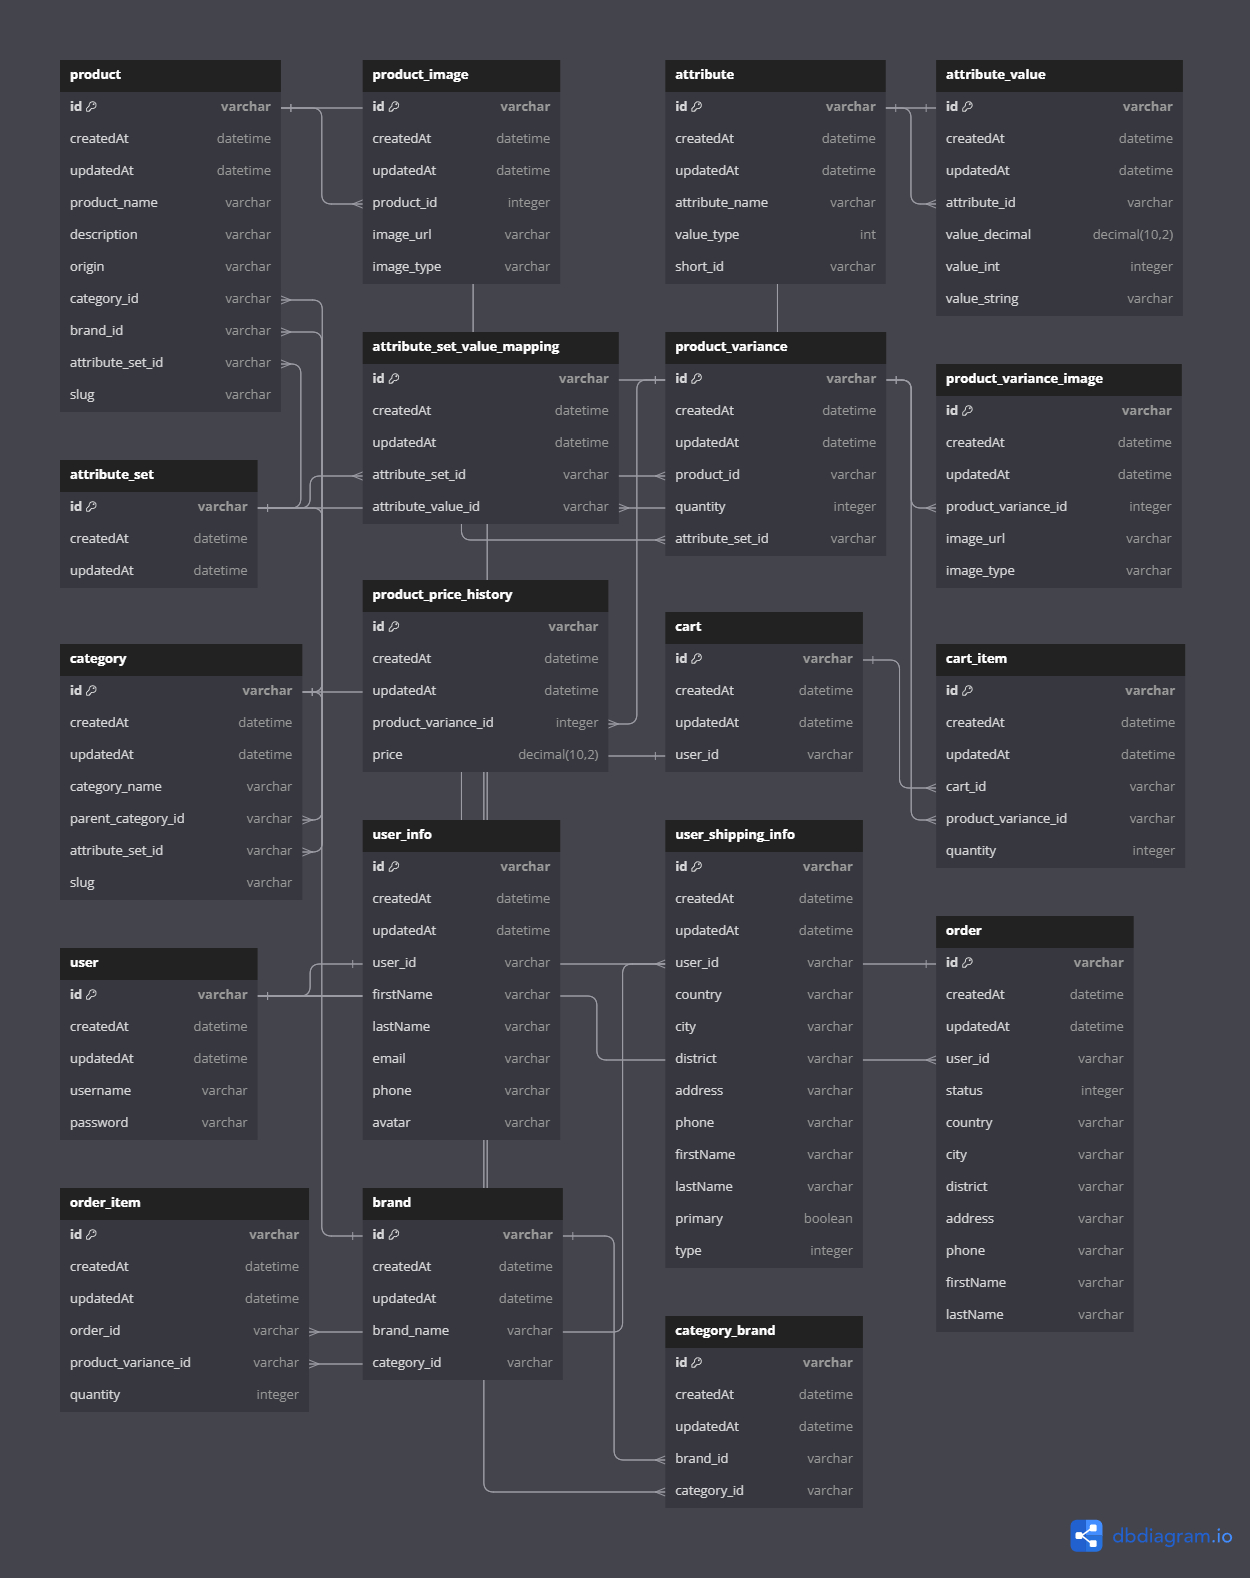
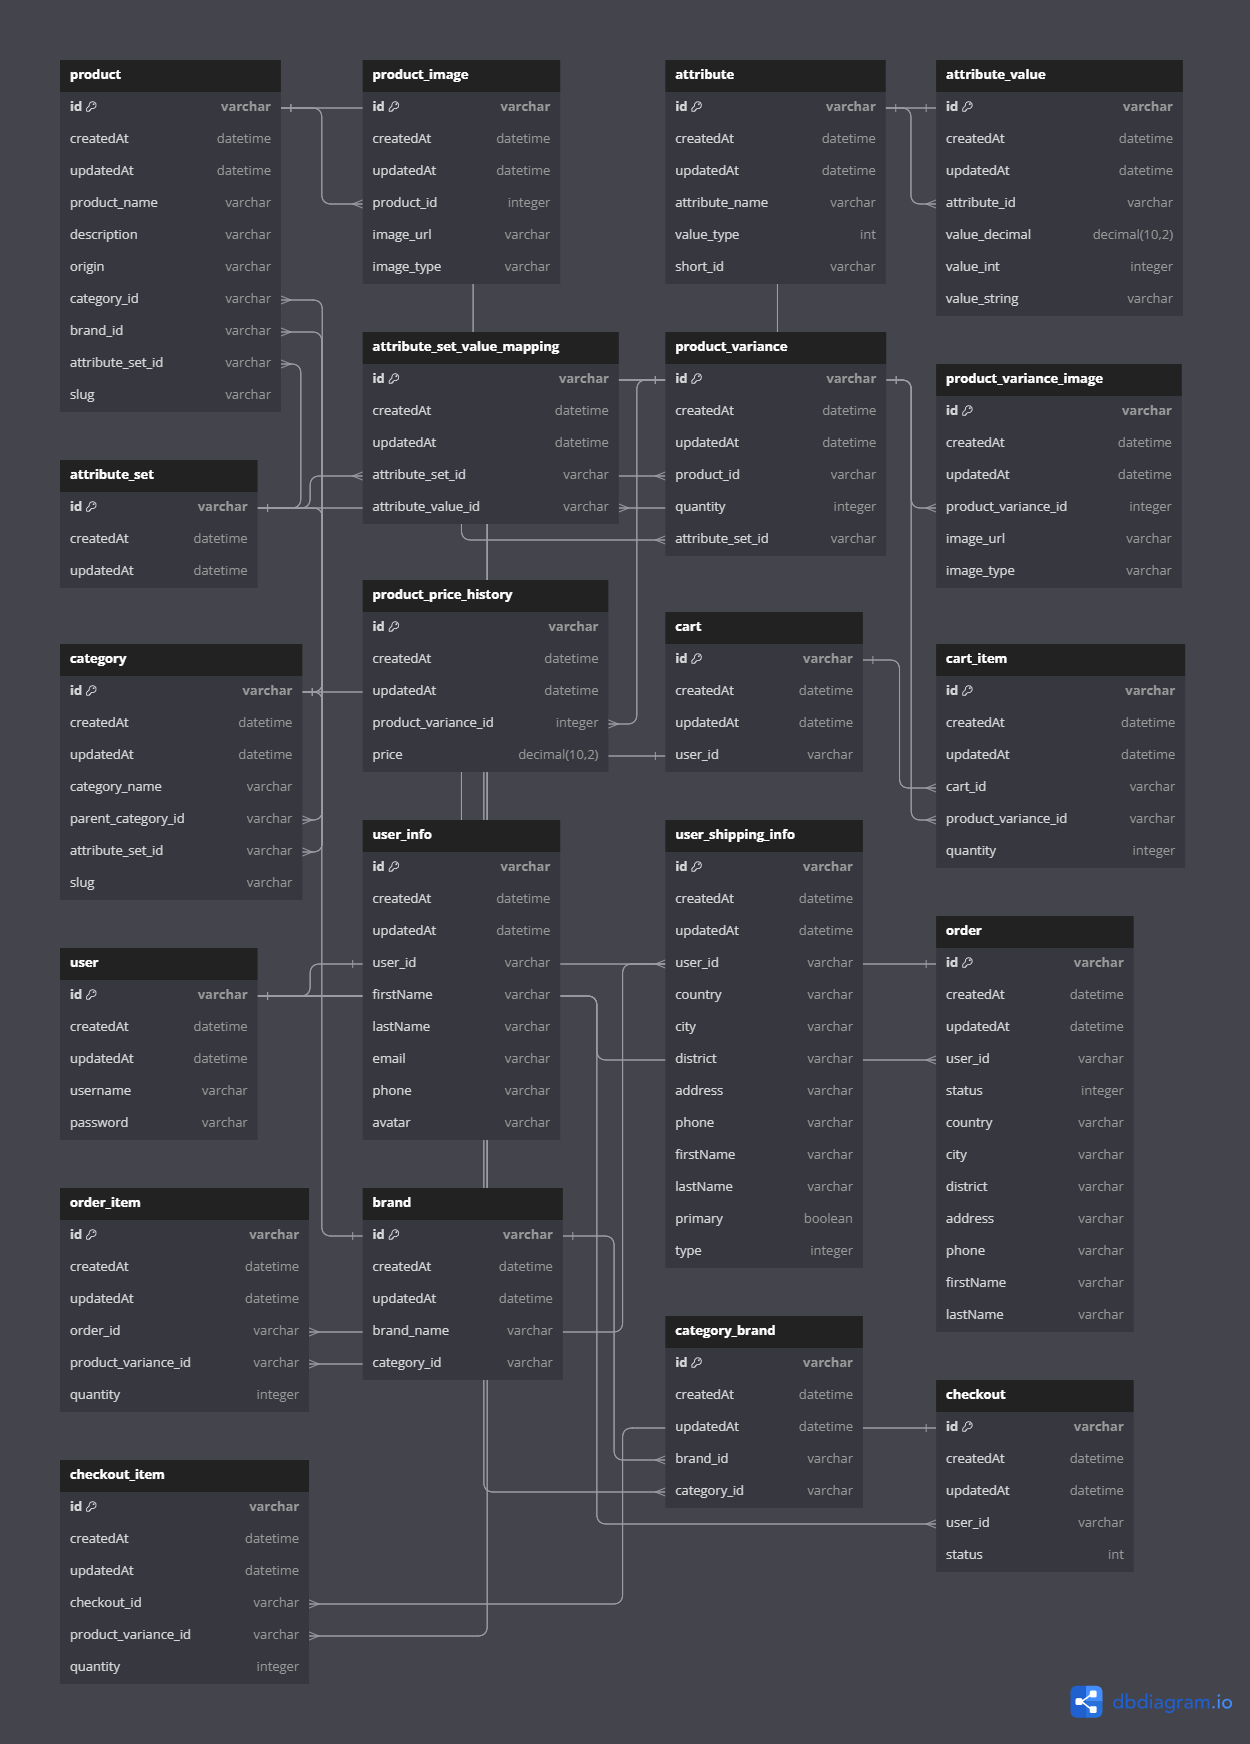
feat: add getCategoryDetailsBySlug

diff --git a/src/modules/user/user.controller.ts b/src/modules/user/user.controller.ts
@@ -1,7 +1,7 @@
 import { Body, Controller, Get, Param, Post, Req, Res, UseGuards } from '@nestjs/common'
 import { UserService } from './user.service'
 import { Response } from 'express'
-import { ApiBody, ApiCreatedResponse, ApiParam, ApiResponse } from '@nestjs/swagger'
+import { ApiBody, ApiCreatedResponse, ApiParam, ApiResponse, ApiTags } from '@nestjs/swagger'
 import CreateUserDTO from 'src/dtos/create-user.dto'
 import User from 'src/entities/user.entity'
 import AuthService from '../auth/auth.service'
@@ -11,6 +11,7 @@ import Cart from 'src/entities/cart.entity'
 import { TokenVerifyGuard } from '../auth/tokenVerify.guard'
 import RemoveFromCartDTO from 'src/dtos/remove-from-cart.dto'
 
+@ApiTags('User')
 @Controller('users')
 export class UserController {
   constructor(private readonly service: UserService, private readonly authService: AuthService) {}
@@ -104,16 +105,16 @@ export class UserController {
   @Get('authentication')
   async anthentication(@Req() request: any, @Res() res: Response) {
     if (!request.cookies || !request.cookies['access_token']) return res.status(401).json({ error: 'Authentication failed' })
-    
+
     const accessToken = request.cookies['access_token']
     const refreshToken = request.cookies['refresh_token']
-    
+
     const validateAccessToken = await this.authService.validateToken('access_token', accessToken)
     if (validateAccessToken) return res.status(200).json({ ...validateAccessToken, accessToken, refreshToken })
-   
+
     const validateRfToken = await this.authService.validateToken('refresh_token', refreshToken)
     if (!validateRfToken) return res.status(401).json({ error: 'Authentication failed' })
-   
+
     const newAccessToken = await this.authService.signToken('access_token', { _id: validateRfToken.id })
     res.cookie('access_token', newAccessToken, tokenConfig.accessToken.cookieOptions)
     return res.status(200).json({

diff --git a/src/modules/product/product.service.ts b/src/modules/product/product.service.ts
@@ -364,8 +364,10 @@ export class ProductService {
     if (query['c']) {
       const categorySlugs = query['c']
       const categories = await this.categoryRepository.findBy({ slug: In(categorySlugs) })
+      if (categories.length === 0) return []
       const attributeSet = categories[0].attributeSet
-      const categoryDetails = await this.categoryService.getCategoryDetails(categories[0].id)
+      if (!attributeSet) return []
+      const categoryDetails = await this.categoryService.getCategoryDetails(categories[0].id, null)
       categoryDetails.brands.forEach((brand) => {
         productFilters.brands.values.push(brand.brand_name)
       })
@@ -407,7 +409,7 @@ export class ProductService {
         .getOne()
       if (!product) return []
       const attributeSet = product.category.attributeSet
-      const categoryDetails = await this.categoryService.getCategoryDetails(product.category.id)
+      const categoryDetails = await this.categoryService.getCategoryDetails(product.category.id, null)
       categoryDetails.brands.forEach((brand) => {
         productFilters.brands.values.push(brand.brand_name)
       })

diff --git a/src/entities/product-variance.entity.ts b/src/entities/product-variance.entity.ts
@@ -1,12 +1,12 @@
-import { Column, Entity, JoinColumn, ManyToOne, OneToMany } from 'typeorm'
+import { Column, Entity, JoinColumn, ManyToOne, OneToMany, OneToOne } from 'typeorm'
 import CustomBase from './base'
 import Product from './product.entity'
 import ProductImage from './product-variance-image.entity'
 import ProductPriceHistory from './product-price-history.entity'
 import CartItem from './cart-item.entity'
 import OrderItem from './order-item.entity'
-import ProductVarianceImage from './product-variance-image.entity'
 import AttributeSet from './attribute-set.entity'
+import CheckoutItem from './checkout-item.entity'
 
 @Entity()
 class ProductVariance extends CustomBase {
@@ -38,6 +38,9 @@ class ProductVariance extends CustomBase {
   @ManyToOne(() => AttributeSet, (attributeSet) => attributeSet.productVariances, { eager: true })
   @JoinColumn({ name: 'attribute_set_id' })
   attributeSet: AttributeSet
+
+  @OneToOne(() => CheckoutItem, (checkoutItem) => checkoutItem.productVariance)
+  checkoutItems: CheckoutItem[]
 }
 
 export default ProductVariance

diff --git a/src/entities/checkout.entity.ts b/src/entities/checkout.entity.ts
@@ -1,0 +1,32 @@
+import { Column, Entity, Index, JoinColumn, ManyToOne, OneToMany, OneToOne } from 'typeorm'
+import CustomBase from './base'
+import Category from './category.entity'
+import ProductVariance from './product-variance.entity'
+import Brand from './brand.entity'
+import ProductImage from './product-image.entity'
+import { ApiProperty } from '@nestjs/swagger'
+import AttributeSet from './attribute-set.entity'
+import User from './user.entity'
+import CheckoutItem from './checkout-item.entity'
+
+@Entity()
+class Checkout extends CustomBase {
+  //0: checkout, 1: ordered 
+  @ApiProperty()
+  @Column({ type: 'int2', nullable: false, default: 0 })
+  status: string
+
+  @ApiProperty()
+  @Column({ type: 'varchar', nullable: false })
+  user_id: string
+
+  @ManyToOne(() => User, (user) => user.checkouts)
+  @JoinColumn({ name: 'user_id' })
+  user: User
+
+  @ApiProperty()
+  @OneToMany(() => CheckoutItem, (checkoutItem) => checkoutItem.checkout, { eager: true })
+  checkoutItems: CheckoutItem[]
+}
+
+export default Checkout

diff --git a/src/entities/checkout-item.entity.ts b/src/entities/checkout-item.entity.ts
@@ -1,0 +1,30 @@
+import { Column, Entity, JoinColumn, ManyToOne } from 'typeorm'
+import CustomBase from './base'
+import ProductVariance from './product-variance.entity'
+import { ApiProperty } from '@nestjs/swagger'
+import Checkout from './checkout.entity'
+
+@Entity()
+class CheckoutItem extends CustomBase {
+  @Column({ type: 'int2', nullable: false, default: 0 })
+  quantity: number
+
+  @ApiProperty()
+  @Column({ type: 'varchar', nullable: false })
+  checkout_id: string
+
+  @ApiProperty()
+  @Column({ type: 'varchar', nullable: false })
+  product_variance_id: string
+
+  @ManyToOne(() => Checkout, (checkout) => checkout.checkoutItems)
+  @JoinColumn({ name: 'checkout_id' })
+  checkout: Checkout
+
+  @ApiProperty()
+  @ManyToOne(() => ProductVariance, (productVariance) => productVariance.checkoutItems, { eager: true })
+  @JoinColumn({ name: 'product_variance_id' })
+  productVariance: ProductVariance
+}
+
+export default CheckoutItem

diff --git a/src/modules/category/category.controller.ts b/src/modules/category/category.controller.ts
@@ -24,7 +24,16 @@ export class CategoryController {
   @ApiParam({ name: 'id', type: String })
   @Get('/:id')
   async getCategoryDetails(@Param() params: { id: string }, @Res() res: Response) {
-    const response = await this.service.getCategoryDetails(params.id)
+    const response = await this.service.getCategoryDetails(params.id, null)
+    if (!response) return res.status(400).json({ error: 'Not found' })
+    return res.status(200).json(response)
+  }
+
+  @ApiResponse({ status: 200, type: CategoryDetails })
+  @ApiParam({ name: 'slug', type: String })
+  @Get('/slug/:slug')
+  async getCategoryDetailsBySlug(@Param() params: { slug: string }, @Res() res: Response) {
+    const response = await this.service.getCategoryDetails(null, params.slug)
     if (!response) return res.status(400).json({ error: 'Not found' })
     return res.status(200).json(response)
   }

diff --git a/src/app.module.ts b/src/app.module.ts
@@ -31,6 +31,8 @@ import { CategoryBrandModule } from './modules/category-brand/category-brand.mod
 import { AttributeModule } from './modules/attribute/attribute.module'
 import { DataSource } from 'typeorm'
 import { AuthModule } from './modules/auth/auth.module'
+import Checkout from './entities/checkout.entity'
+import CheckoutItem from './entities/checkout-item.entity'
 @Module({
   imports: [
     ConfigModule.forRoot(),
@@ -61,6 +63,8 @@ import { AuthModule } from './modules/auth/auth.module'
         ProductPriceHistory,
         Cart,
         CartItem,
+        Checkout,
+        CheckoutItem
       ],
       synchronize: true,
     }),

diff --git a/src/entities/user.entity.ts b/src/entities/user.entity.ts
@@ -3,6 +3,7 @@ import CustomBase from './base'
 import UserShippingInfo from './user-shipping-info.entity'
 import Order from './order.entity'
 import { ApiProperty } from '@nestjs/swagger'
+import Checkout from './checkout.entity'
 
 @Entity()
 class User extends CustomBase {
@@ -20,6 +21,10 @@ class User extends CustomBase {
   @ApiProperty()
   @OneToMany(() => Order, (order) => order.user, { eager: true })
   orders: Order[]
+
+  @ApiProperty()
+  @OneToMany(() => Checkout, (checkout) => checkout.user, { eager: true })
+  checkouts: Checkout[]
 }
 
 export default User

diff --git a/src/modules/category/category.service.ts b/src/modules/category/category.service.ts
@@ -69,8 +69,9 @@ export class CategoryService {
     return path
   }
 
-  async getCategoryDetails(categoryId: string): Promise<CategoryDetailsDTO> {
-    const category = await this.categoryRepository.findOne({ where: { id: categoryId } })
+  async getCategoryDetails(categoryId: string, slug: string): Promise<CategoryDetailsDTO> {
+    const query = categoryId ? { id: categoryId } : { slug }
+    const category = await this.categoryRepository.findOne({ where: query })
     if (!category) return null
     const categoryDetails: CategoryDetailsDTO = {
       brands: [],

diff --git a/src/dtos/create-checkout-dto.ts b/src/dtos/create-checkout-dto.ts
@@ -1,0 +1,14 @@
+import { ApiProperty } from '@nestjs/swagger'
+import { IsNotEmpty, IsNumber, IsString, Min } from 'class-validator'
+
+export default class CreateCheckoutDTO {
+  @ApiProperty({ type: String, description: 'Product variance id', required: true })
+  @IsString()
+  @IsNotEmpty()
+  product_variance_id: string
+
+  @ApiProperty({ type: Number, description: 'Quantity of product', required: true })
+  @IsNumber()
+  @Min(1)
+  quantity: number
+}

diff --git a/src/main.ts b/src/main.ts
@@ -8,7 +8,7 @@ import express from 'express'
 
 async function bootstrap() {
   const app = await NestFactory.create(AppModule)
-  app.use(cors({ credentials: true, origin: process.env.CLIENT_HOST_URL }))
+  app.use(cors({ credentials: true, origin: [process.env.CLIENT_HOST_URL,process.env.CLIENT_ADMIN_URL] }))
   app.use(cookieParser())
   app.useGlobalPipes(new ValidationPipe())
   app.use(express.json({ limit: '50mb' }))
